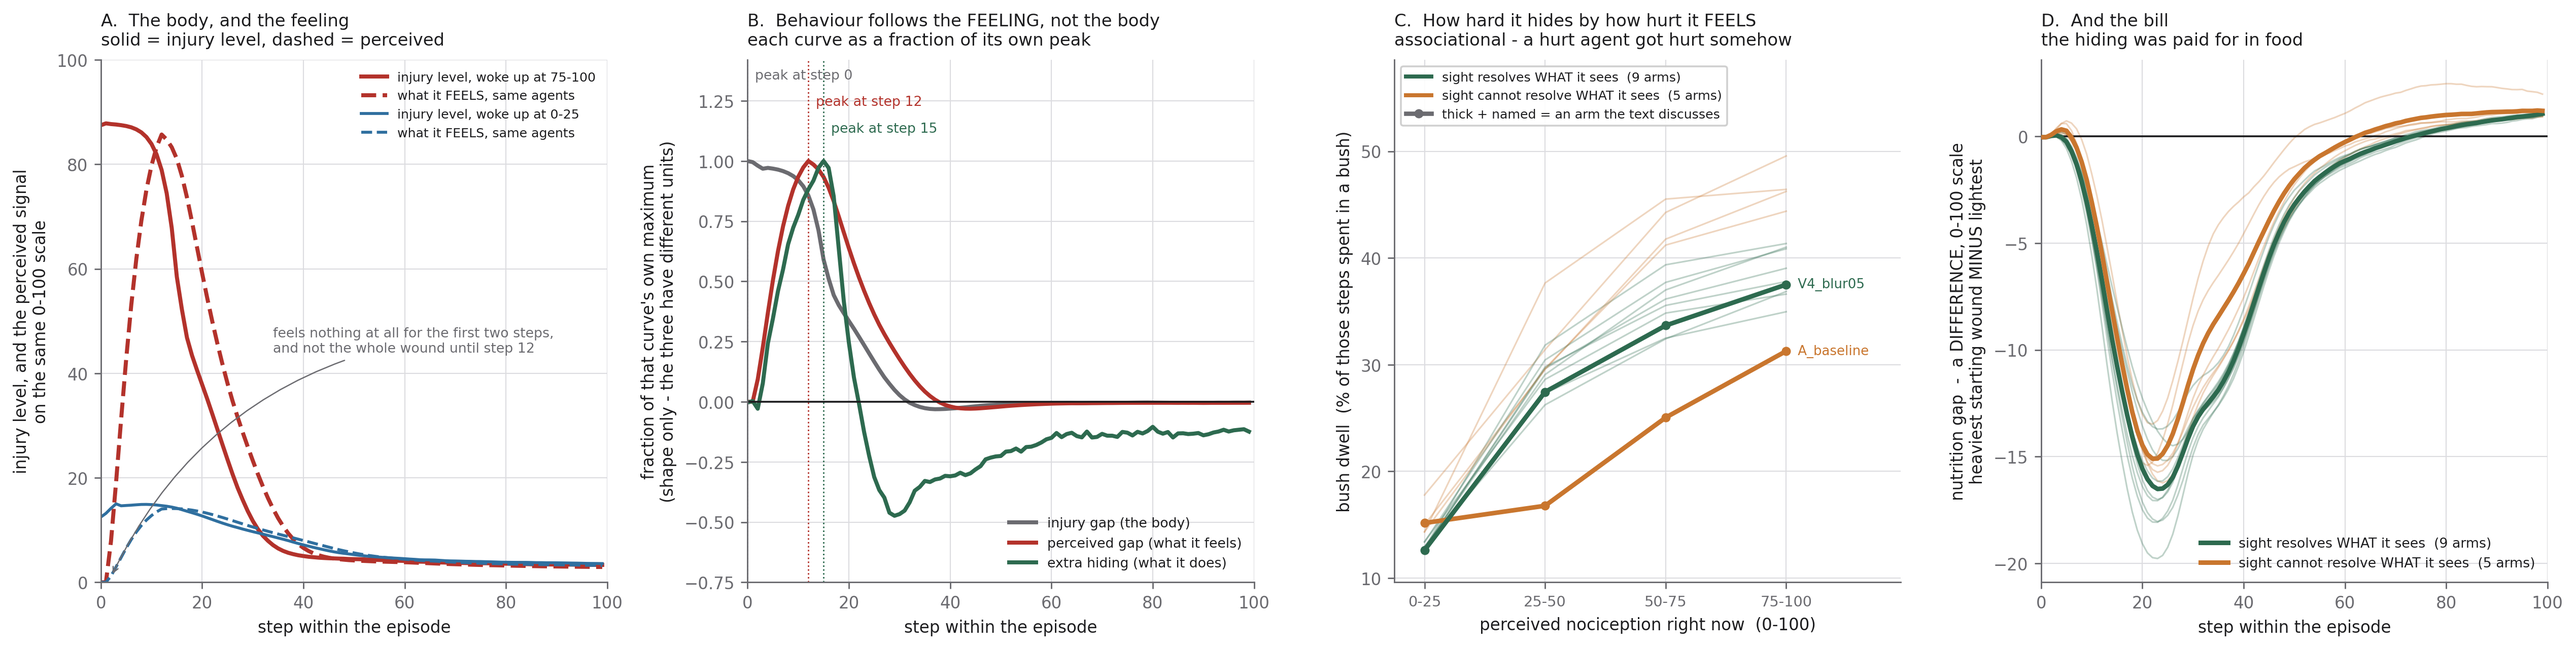
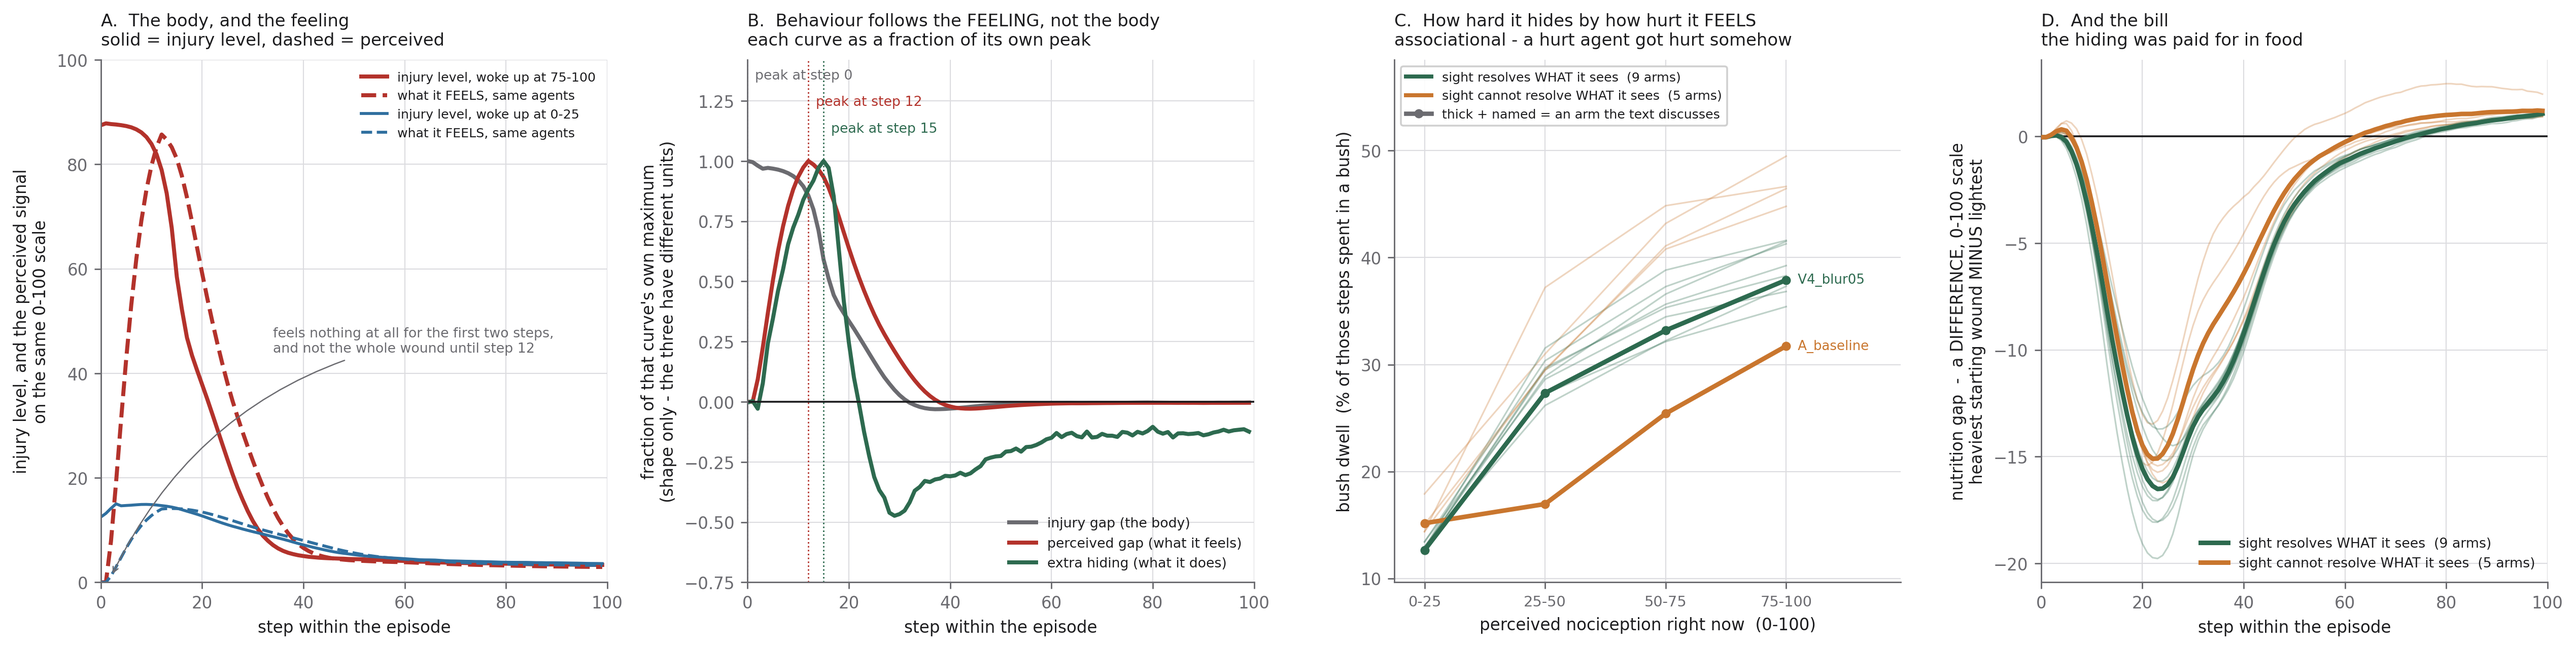
fix(analysis): 📊 rebuild figure 9 on the corrected dose-response binning
All fourteen arms rebuilt with the previous-row pairing (c20ff5db). The
published panel-C claim moves at the rounding level: bush dwell in the lowest
quarter of felt nociception now runs 12.6-17.9% across arms (was 12.6-17.8%),
and in the highest quarter 31.7-49.5% (was 31.3-49.6%). The largest single
change is 0.4 percentage points, and the finding is unchanged -- bush dwell
still rises three to five times from the lowest to the highest quarter of what
the agent is actually feeling.

The other four claims the figure carries are unmoved: physical injury peaks at
step 0 in 14/14 arms, felt nociception at step 12 in 14/14, hiding peaks at
step 14-16 in 13/14, and on the reference arm the correlation with the felt
signal (+0.87) still exceeds the correlation with the underlying injury
(+0.76).

diff --git a/docs/experiments/active/sensor_ladder/artifact_template.html b/docs/experiments/active/sensor_ladder/artifact_template.html
@@ -801,8 +801,8 @@ tracking how long the agent can <em>feel</em> the wound.</p>
     exception is <code>A_baseline</code>, at noise level throughout (+1.05 pp, step 4).</p></div>
     <div><h5>The size was understated too</h5><p>Binning by the assigned wound averages over the
     ramp-up window in which the agent feels almost nothing. Binned by what it is actually feeling
-    (panel C), bush dwell runs from <strong>12.6&ndash;17.8%</strong> at the lowest quarter of felt
-    nociception to <strong>31.3&ndash;49.6%</strong> at the highest &mdash; three to five times the
+    (panel C), bush dwell runs from <strong>12.6&ndash;17.9%</strong> at the lowest quarter of felt
+    nociception to <strong>31.7&ndash;49.5%</strong> at the highest &mdash; three to five times the
     spread of anything in Figure 8. That panel is associational, so it is not a substitute for the
     causal contrast, but it is the right scale for the perceptual effect.</p></div>
     <div><h5>And the bill</h5><p>An agent handed a heavy wound eats 4.4 food items in its first 25

diff --git a/docs/experiments/active/sensor_ladder/sensor_ladder.md b/docs/experiments/active/sensor_ladder/sensor_ladder.md
@@ -606,8 +606,8 @@ It is the one arm with neither directional smell nor useful sight.
 
 **The size of the effect was also understated.** Binning by the assigned wound averages over the
 whole ramp-up window in which the agent feels almost nothing, which is why Figure 8's numbers are
-small. Binned by what the agent is actually feeling (panel C), bush dwell runs from **12.6&ndash;17.8%
-at the lowest quarter of felt nociception to 31.3&ndash;49.6% at the highest** &mdash; a spread three
+small. Binned by what the agent is actually feeling (panel C), bush dwell runs from **12.6&ndash;17.9%
+at the lowest quarter of felt nociception to 31.7&ndash;49.5% at the highest** &mdash; a spread three
 to five times larger than anything in Figure 8. That panel is associational, so it is not a
 substitute for the causal contrast; but it is the right scale for the perceptual effect.
 
